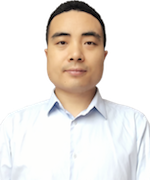
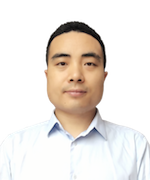
更新头像及部分表述.

diff --git a/index.html b/index.html
@@ -226,15 +226,15 @@
 
                 <h2>基于北斗+物联网的危险源安全监测预警云平台建设 <br /><span>四川九洲北斗导航与位置服务有限公司 - 2016-2020</span></h2>
                 <ul>
-                    <li>负责项目总体设计，包括平台架构设计、传感器技术选型等</li>
-                    <li>负责部分项目关键技术攻关，包括安全监测数据的挖掘分析预研，特别是北斗形变监测数据的分析预警</li>
+                    <li>负责项目总体策划</li>
+                    <li>负责部分项目关键技术攻关，包括空间信息技术应用及监测数据挖掘分析等</li>
                 </ul>
 
                 <h2>面向高速公路的北斗信息化系统建设 <br /><span>四川九洲北斗导航与位置服务有限公司 - 2016-2017</span></h2>
                 <ul>
                     <li>负责高速公路北斗信息化系统总体设计</li>
-                    <li>开展先期技术验证、技术选型及后续项目数据成果的应用研究；</li>
-                    <li>包括基于摄影测量的施工进度分析、高速公路二三维数据一体化管理、基于高速公路设计的快速参数化建模等；</li>
+                    <li>开展先期技术验证、技术选型及后续项目数据成果的应用研究</li>
+                    <li>包括基于摄影测量的施工进度分析、高速公路二三维数据一体化管理、基于高速公路设计的快速参数化建模等</li>
                     <li>成果获中国卫星导航定位协会卫星导航定位优秀工程和产品奖一等奖</li>
                 </ul>
 
@@ -271,7 +271,7 @@
                     <li>项目主要负责人之一，为项目样本库建设提供技术支持（样本采集、样本入库等）</li>
                     <li>实现了一套基于Arcpy的样本自动采集、入库方案</li>
                     <li>研究实现了高分辨率遥感影像的特征库建设方法(面向对象方法、机器学习方法)</li>
-                    <li>研究实现了基于多种特征的滑坡灾害识别方法。</li>
+                    <li>研究实现了基于多种特征的滑坡灾害识别方法</li>
                 </ul>
 
                 <!--<h2>无人机低空遥感影像数据处理 <br/><span>课题组项目 - 2010-2012</span></h2>-->
